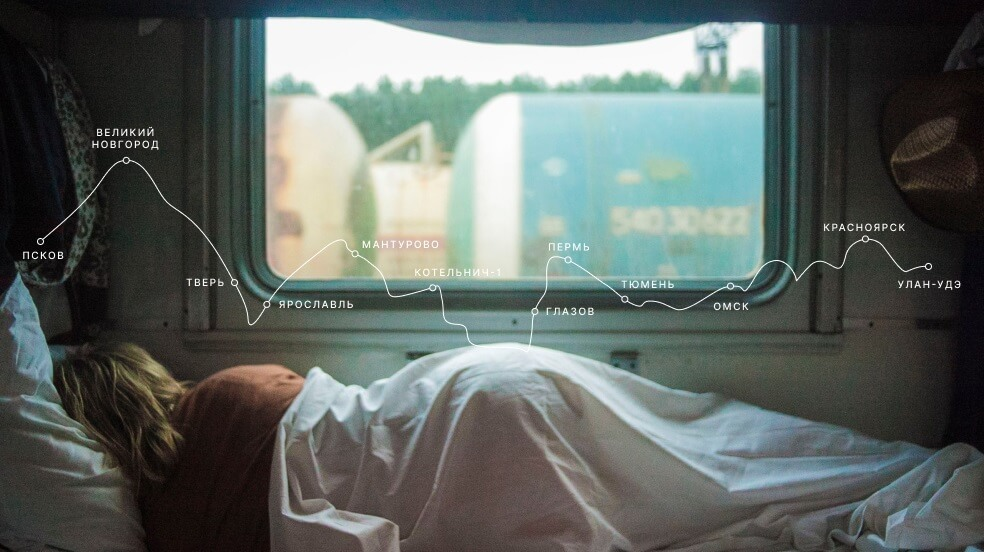
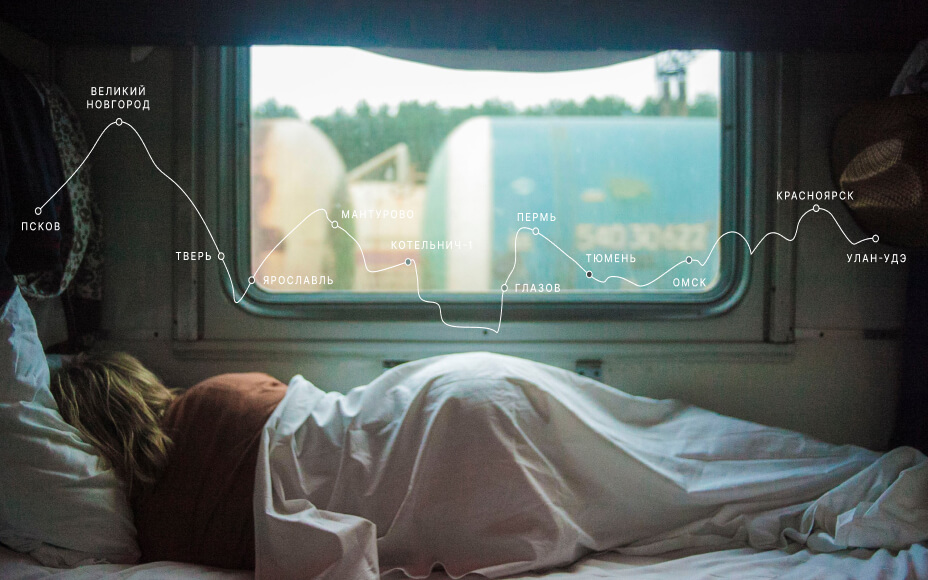
lead/image

diff --git a/index.html b/index.html
@@ -22,7 +22,7 @@
             <section class="lead section">
                 <h1 class="lead__title">Путешествия по России</h1>
                 <h4 class="lead__subtitle">Настоящая страна не в выпусках новостей, а здесь.</h4>
-                <img class="lead__image" src="images/lead.jpg" alt="Девушка в поезде" />
+                <img class="lead__image" src="images/lead__image.jpg" alt="Девушка в поезде" />
                 <span class="lead__caption">ваша полка — верхняя</span>
             </section>
 
